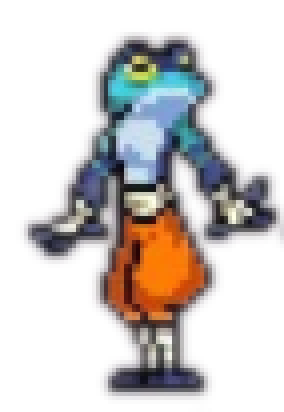
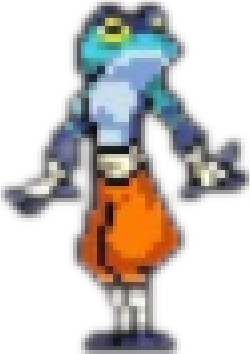
try new sprites on warp

diff --git a/src/GameEntity/Player/Player.java b/src/GameEntity/Player/Player.java
@@ -28,11 +28,13 @@ public class Player extends GameObject implements Shootable {
     public Bounds warpBox;
 //    private double fireRate;
     private long lastFireTime = 0;
+    private Image activeImage;
 
     public Player(Transform transform, double z) {
         super(transform, z);
         this.speed = Config.PLAYER_SPEED_BASE;
-        setImage(Asset.Game.player);
+        setImage(Asset.UI.idle1);
+        activeImage = Asset.UI.idle1;
     }
 
     public void checkOutOfBounds() {
@@ -56,6 +58,7 @@ public class Player extends GameObject implements Shootable {
     }
     public void drawHitbox(){
         double offset = (5 - PlayerManager.getInstance().getMinimize())/10;
+//        System.out.println(offset);
         double scale = PlayerManager.getInstance().getMinimize() /5;
 //        double offsetH = 0.25;
         this.hitbox = new BoundingBox(transform.getPosX() + (offset * image.getWidth() * transform.getSclX()),transform.getPosY() + ( offset * image.getHeight() * transform.getSclY()), image.getWidth()* transform.getSclX() * scale, image.getHeight()* transform.getSclY() * scale);
@@ -71,18 +74,21 @@ public class Player extends GameObject implements Shootable {
     public void draw(GraphicsContext gc) {
         drawHitbox();
         drawGrazebox();
-        Utility.DrawImage(gc,getImage(),this.transform);
+        activeImage = Asset.UI.idle1;
 //        gc.drawImage(getImage(), this.transform.getPosX(), this.transform.getPosY(), 60, 60);
         if(isSlashPressed()){
+            activeImage = Asset.UI.idle2;
             gc.setStroke(Color.LIGHTYELLOW);
             gc.strokeRect(warpBox.getMinX(),warpBox.getMinY(),warpBox.getWidth(),warpBox.getHeight());
         }
         if(isShiftPressed()){
+
             gc.setStroke(Color.GREENYELLOW);
             gc.strokeRect(bounds.getMinX(),bounds.getMinY(),bounds.getWidth(),bounds.getHeight());
             gc.setStroke(Color.YELLOW);
             gc.strokeRect(hitbox.getMinX(),hitbox.getMinY(),hitbox.getWidth(),hitbox.getHeight());
         }
+        Utility.DrawImage(gc,activeImage,this.transform);
     }
 
     public void controlAggressiveShoot() {
@@ -139,6 +145,9 @@ public class Player extends GameObject implements Shootable {
     }
     public Bounds getHitbox() {
         return hitbox;
+    }
+    public void setActiveImage(Image activeImage) {
+       this.activeImage = activeImage;
     }
 
 }

diff --git a/src/Utils/Config.java b/src/Utils/Config.java
@@ -102,8 +102,8 @@ public class Config {
     public static final double HITBOX_SIZE_BASE = 5;
     public static final double MINIMIZE_UPGRADE = -0.1;
     public static final double MINIMIZE_BASE_PRICE = 200;
-    public static final double MINIMIZE_PRICE_INCREMENT = 1.75;//Power by level
-    public static final double MINIMIZE_MAX_LEVEL = 35;
+    public static final double MINIMIZE_PRICE_INCREMENT = 1.35;//Power by level
+    public static final double MINIMIZE_MAX_LEVEL = 40;
 
     //DEXTERITY
     public static final double GRAZE_HITBOX_SIZE_BASE = 8;

diff --git a/src/Manager/PlayerManager.java b/src/Manager/PlayerManager.java
@@ -33,7 +33,7 @@ public class PlayerManager implements  Updatable {
     }
 
     private void addPlayer(){
-        Player player = new Player(new Transform(200,400,0.1,0.1),25);
+        Player player = new Player(new Transform(200,400,0.2,0.2),25);
         this.player = player;
         GameObjectHolder.getInstance().add(player);
     }

diff --git a/src/Manager/StatManager.java b/src/Manager/StatManager.java
@@ -25,7 +25,7 @@ public class StatManager implements Updatable {
     private ArrayList<Integer> dnaLevels;
     public StatManager(){
         setAmber(0);
-        setCoin(0);
+        setCoin(1000000000);
         setTotalCoin(0);
         setHoneyLevel(1);
         setCompletion(0);
